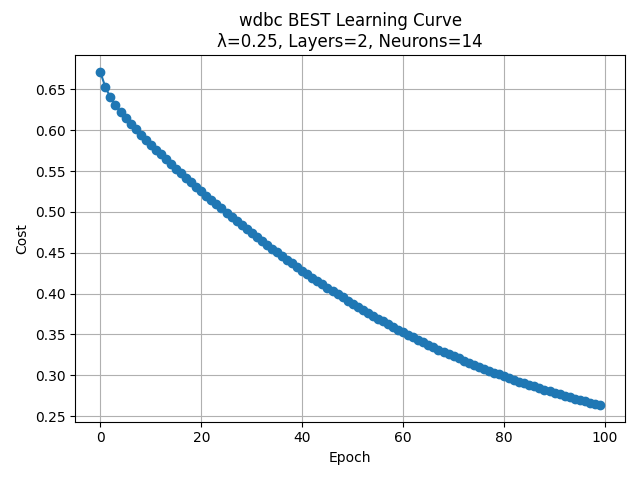
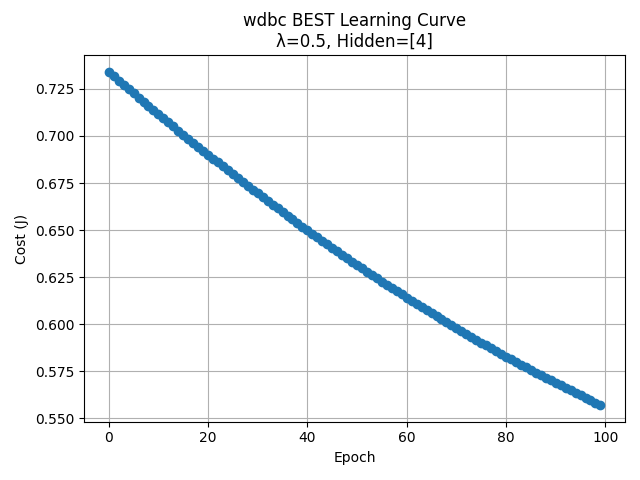
f1, accuracy is really low in batch mode

diff --git a/nn.py b/nn.py
@@ -22,7 +22,7 @@ class NeuralNetwork:
         for i in range(len(self.layer_sizes) - 1):
             l_in = self.layer_sizes[i] + 1
             l_out = self.layer_sizes[i + 1]
-            weight = np.random.randn(l_out, l_in) * np.sqrt(2 / l_in)
+            weight = np.random.randn(l_out, l_in) * np.sqrt(1 / l_in)
             weights.append(weight)
         return weights
 
@@ -49,6 +49,12 @@ class NeuralNetwork:
                     self.update_weights(finalized_D)
 
             elif mode == 'batch':
+                # ✅ 셔플 추가
+                indices = np.arange(m)
+                np.random.shuffle(indices)
+                X_shuffled = X[indices]
+                y_shuffled = y[indices]
+
                 all_a_lists, _ = forward_propagation(self.weights, X)
                 finalized_D, _, _ = backpropagation(self.weights, all_a_lists, y, self.lam)
                 self.update_weights(finalized_D)
@@ -113,7 +119,6 @@ def stratified_k_fold_split(X, y, k=5):
         folds.append((train_df, test_df))
     return folds
 
-# === mini-batch ===
 
 # === numerical descent ===
 
@@ -127,18 +132,23 @@ def my_f1_score(y_true, y_pred):
     fp = np.sum((y_true == 0) & (y_pred == 1))
     fn = np.sum((y_true == 1) & (y_pred == 0))
 
-    if tp + fp == 0 or tp + fn == 0:
+    if tp == 0:
+        return 0.0  # 예측된 positive가 전혀 없거나, 실제 positive가 없으면 f1은 0
+
+    precision = tp / (tp + fp) if (tp + fp) > 0 else 0.0
+    recall = tp / (tp + fn) if (tp + fn) > 0 else 0.0
+
+    if precision + recall == 0:
         return 0.0
 
-    precision = tp / (tp + fp)
-    recall = tp / (tp + fn)
     return 2 * (precision * recall) / (precision + recall)
 
+
 # === Plot Learning Curve ===
-def plot_best_learning_curve(results, dataset_name, metric='f1'):
-    best_key = max(results, key=lambda k: results[k][metric])
+def plot_best_learning_curve(results, dataset_name, save_folder):
+    # ✅ 가장 낮은 cost를 가진 모델 선택
+    best_key = min(results, key=lambda k: results[k]['model'].cost_history[-1])
     best_info = results[best_key]
-    
     model = best_info['model']
     hidden_layer = best_info['hidden']
     lam = best_info['lam']
@@ -146,20 +156,23 @@ def plot_best_learning_curve(results, dataset_name, metric='f1'):
     os.makedirs("evaluation", exist_ok=True)
     plt.figure()
     plt.plot(model.cost_history, marker='o')
-    total_neurons = sum(hidden_layer)
-    title = f"{dataset_name} BEST Learning Curve\nλ={lam}, Layers={len(hidden_layer)}, Neurons={total_neurons}"
+
+    # ✅ 제목에 hidden layer를 리스트 형태로 출력
+    title = f"{dataset_name} BEST Learning Curve\nλ={lam}, Hidden={hidden_layer}"
     plt.title(title, fontsize=12)
     plt.xlabel("Epoch")
-    plt.ylabel("Cost")
+    plt.ylabel("Cost (J)")
     plt.grid(True)
     plt.tight_layout()
-    filename = f"evaluation/{dataset_name.lower()}_best_curve.png"
+    
+    filename = f"{save_folder}/{dataset_name.lower()}_best_curve.png"
     plt.savefig(filename)
     print(f"🌟 Saved best learning curve: {filename}")
     plt.close()
 
+
 # === Save Metrics Table ===
-def save_metrics_table(results_by_dataset):
+def save_metrics_table(results_by_dataset, save_folder):
     os.makedirs("evaluation", exist_ok=True)
     for dataset_name, dataset_results in results_by_dataset.items():
         fig, ax = plt.subplots()
@@ -193,7 +206,7 @@ def save_metrics_table(results_by_dataset):
         table.scale(1.1, 1.6)
         plt.title(f"{dataset_name} Model Performance", fontweight='bold')
         plt.tight_layout()
-        filename = f"evaluation/{dataset_name.lower()}_table.png"
+        filename = f"{save_folder}/{dataset_name.lower()}_table.png"
         plt.savefig(filename)
         print(f"📋 Saved metrics table: {filename}")
         plt.close()
@@ -204,13 +217,13 @@ def main():
     X, y = load_dataset()
     folds = stratified_k_fold_split(X, y, k=5)
 
-    lam = [0.25, 10]
-    hidden_layers = [[8, 6], [10, 10, 10]]
+    lam = [0.25, 0.5]
+    hidden_layers = [[8, 6], [8, 6, 4], [4]]
     
     alpha = 0.01
     epochs = 100
     batch_size = 16         # 🔹 원하는 배치 사이즈
-    mode = "mini-batch"     # 🔹 또는 "batch"
+    mode = "batch"     # 🔹 "mini-batch" 또는 "batch"
 
     dataset_name = DATASET_NAME
     results = {}
@@ -255,10 +268,10 @@ def main():
     # 이후 저장 및 시각화는 그대로
 
     # 📋 저장: 테이블 이미지로
-    save_metrics_table({dataset_name: results})
+    save_metrics_table({dataset_name: results}, "evaluation")
 
     # 🌟 가장 좋은 모델 하나에 대해 학습곡선 저장
-    plot_best_learning_curve(results, dataset_name, metric='f1')  # 또는 metric='acc'
+    plot_best_learning_curve(results, dataset_name, "evaluation")
 
     # 📊 판다스 DataFrame으로 저장
     records = []
@@ -270,8 +283,6 @@ def main():
             "Accuracy": val['acc'],
             "F1 Score": val['f1']
         })
-    results_df = pd.DataFrame(records)
-    results_df.to_csv(f"evaluation/{dataset_name.lower()}_results.csv", index=False)
     print(f"✅ Saved DataFrame to evaluation/{dataset_name.lower()}_results.csv")
 
 

diff --git a/extra3.py b/extra3.py
@@ -1,0 +1,127 @@
+# === numerical_gradients.py ===
+import numpy as np
+from propagation import forward_propagation, cost_function
+from nn import NeuralNetwork, load_dataset, stratified_k_fold_split, my_accuracy, my_f1_score, save_metrics_table, plot_best_learning_curve
+
+DATASET_NAME = "wdbc"
+
+# === Flatten and Unflatten Functions ===
+def flatten_weights(weights):
+    return np.concatenate([w.flatten() for w in weights])
+
+def unflatten_weights(flattened, shapes):
+    weights = []
+    idx = 0
+    for shape in shapes:
+        size = np.prod(shape)
+        weights.append(flattened[idx:idx + size].reshape(shape))
+        idx += size
+    return weights
+
+# === Cost Function Wrapper ===
+def make_cost_function(X, y, shapes, lam):
+    def J(theta_flat):
+        weights = unflatten_weights(theta_flat, shapes)
+        all_a_lists, _ = forward_propagation(weights, X)
+        pred_y_list = [a_list[-1] for a_list in all_a_lists]
+        _, final_cost = cost_function(pred_y_list, y, weights, lam)
+        return final_cost
+    return J
+
+# === Numerical Gradient Computation ===
+def compute_numerical_gradient(J, theta, epsilon=1e-4):
+    num_grad = np.zeros_like(theta)
+    for i in range(len(theta)):
+        theta_plus = np.copy(theta)
+        theta_minus = np.copy(theta)
+        theta_plus[i] += epsilon
+        theta_minus[i] -= epsilon
+        num_grad[i] = (J(theta_plus) - J(theta_minus)) / (2 * epsilon)
+    return num_grad
+
+# === Main Entry for Numerical Gradient Update ===
+def numerical_gradient_update(weights, X, y, lam, alpha):
+    shapes = [w.shape for w in weights]
+    theta_flat = flatten_weights(weights)
+    J = make_cost_function(X, y, shapes, lam)
+    grad_flat = compute_numerical_gradient(J, theta_flat)
+    grad_structured = unflatten_weights(grad_flat, shapes)
+    # Update weights manually here and return new ones
+    updated_weights = [w - alpha * g for w, g in zip(weights, grad_structured)]
+    return updated_weights
+
+
+def main():
+    X, y = load_dataset()
+    folds = stratified_k_fold_split(X, y, k=5)
+
+    lam = [0.25, 0.5]
+    hidden_layers = [[8, 6], [8, 6, 4], [4]]
+    
+    alpha = 0.01
+    epochs = 100
+    batch_size = 16         # 🔹 원하는 배치 사이즈
+    mode = "mini-batch"     # 🔹 또는 "batch"
+
+    dataset_name = DATASET_NAME
+    results = {}
+
+    for h_idx, hidden in enumerate(hidden_layers):
+        for l_idx, l in enumerate(lam):
+            for i, (train_df, test_df) in enumerate(folds):
+                X_train = train_df.drop(columns=['label']).values
+                y_train = train_df['label'].values.reshape(-1, 1)
+                X_test = test_df.drop(columns=['label']).values
+                y_test = test_df['label'].values.astype(int).ravel()
+
+                model = NeuralNetwork(
+                    layer_sizes=[X_train.shape[1], *hidden, 1],
+                    alpha=alpha,
+                    lam=l
+                )
+
+                # 🔽 mode, batch_size 함께 전달
+                model.fit(
+                    X_train, y_train,
+                    epochs=epochs,
+                    batch_size=batch_size,
+                    fold_index=i,
+                    mode=mode
+                )
+
+                preds = model.predict(X_test)
+                preds_binary = (preds >= 0.5).astype(int).ravel()
+
+                acc = my_accuracy(y_test, preds_binary)
+                f1 = my_f1_score(y_test, preds_binary)
+
+                results[f"Fold {i+1}-H{h_idx+1}-L{l_idx+1}"] = {
+                    "hidden": hidden,
+                    "lam": l,
+                    "acc": acc,
+                    "f1": f1,
+                    "model": model
+                }
+
+    # 이후 저장 및 시각화는 그대로
+
+    # 📋 저장: 테이블 이미지로
+    save_metrics_table({dataset_name: results}, "evaluation_extra3")
+
+    # 🌟 가장 좋은 모델 하나에 대해 학습곡선 저장
+    plot_best_learning_curve(results, dataset_name, "evaluation_extra3")
+
+    # 📊 판다스 DataFrame으로 저장
+    records = []
+    for key, val in results.items():
+        records.append({
+            "Fold": key,
+            "Hidden Layers": str(val['hidden']),
+            "Lambda": val['lam'],
+            "Accuracy": val['acc'],
+            "F1 Score": val['f1']
+        })
+    print(f"✅ Saved DataFrame to evaluation/{dataset_name.lower()}_results.csv")
+
+if __name__ == "__main__":
+    main()
